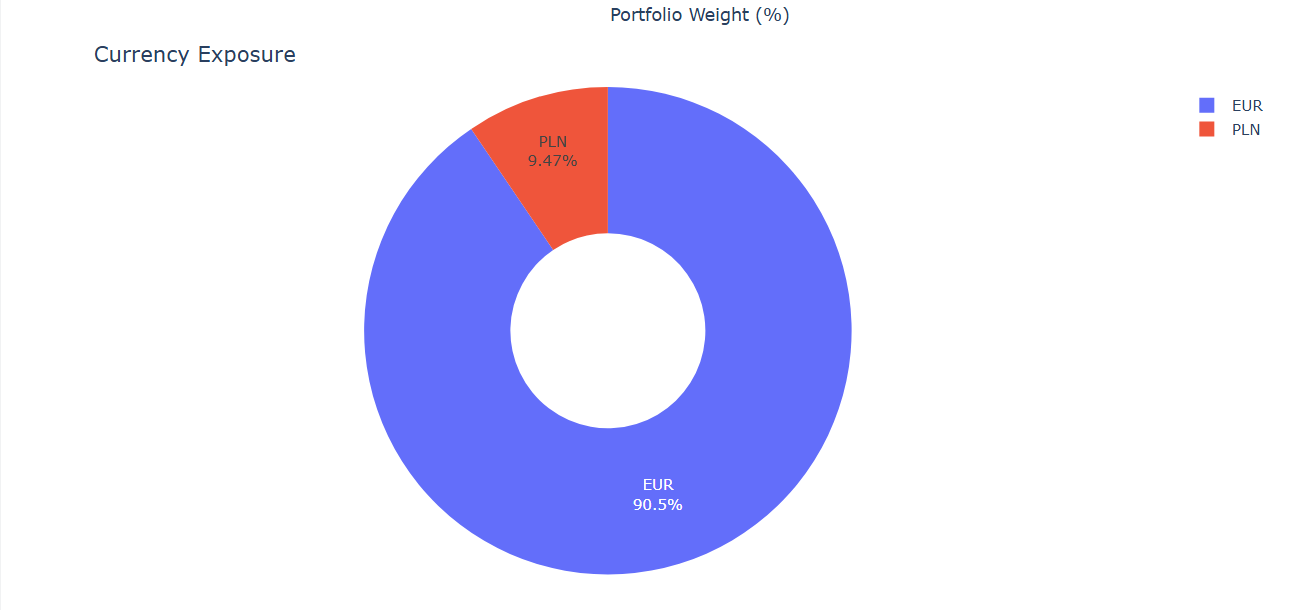
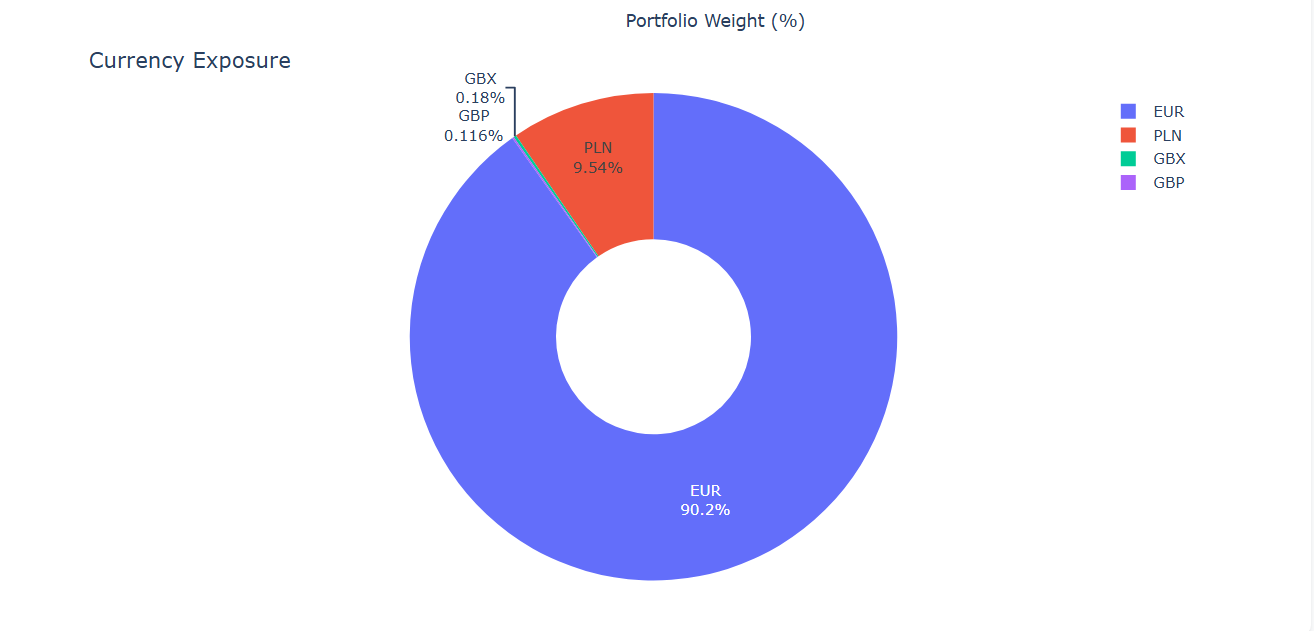
docs: refresh report screenshots, swap DQ for broker allocation
- Update positions and currency-exposure screenshots to current report output

- Replace data-quality screenshot with broker allocation (DQ section to be reworked)

- Rename brocker-allocation.png to broker-allocation.png (typo fix)

- Update README screenshot reference and alt text

diff --git a/README.md b/README.md
@@ -50,7 +50,7 @@ Sample report output generated from demo data for presentation purposes.
 
 ![Positions](docs/screenshots/positions.png)
 ![Currency Exposure](docs/screenshots/currency-exposure.png)
-![Data Quality](docs/screenshots/data-quality.png)
+![Broker Allocation](docs/screenshots/broker-allocation.png)
 
 ## Tech Stack
 
